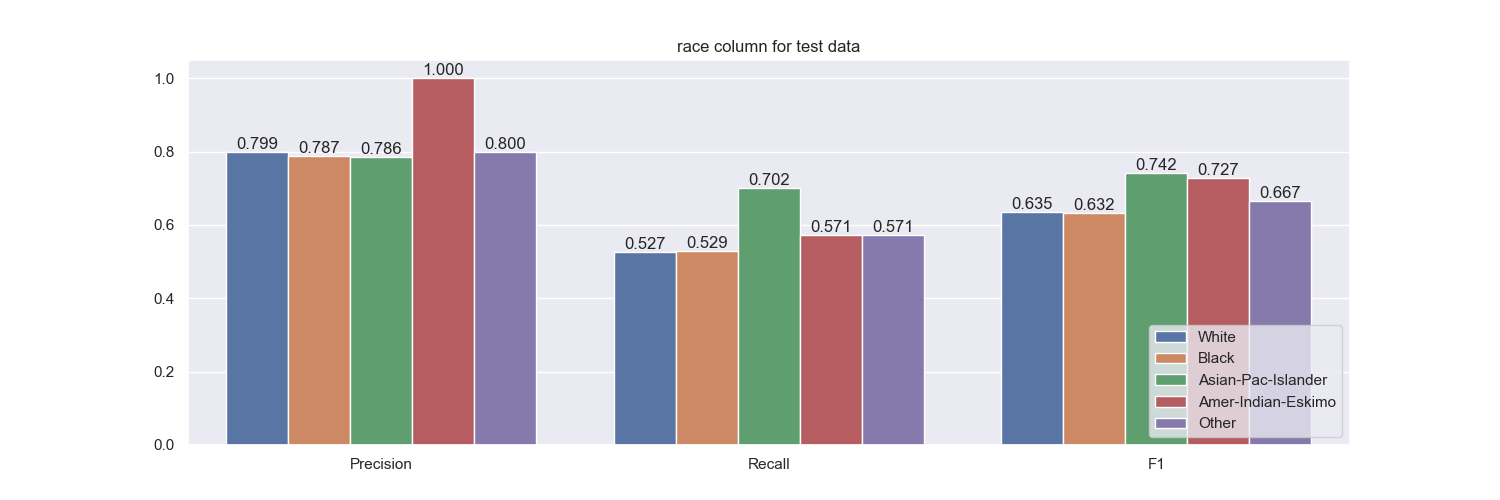
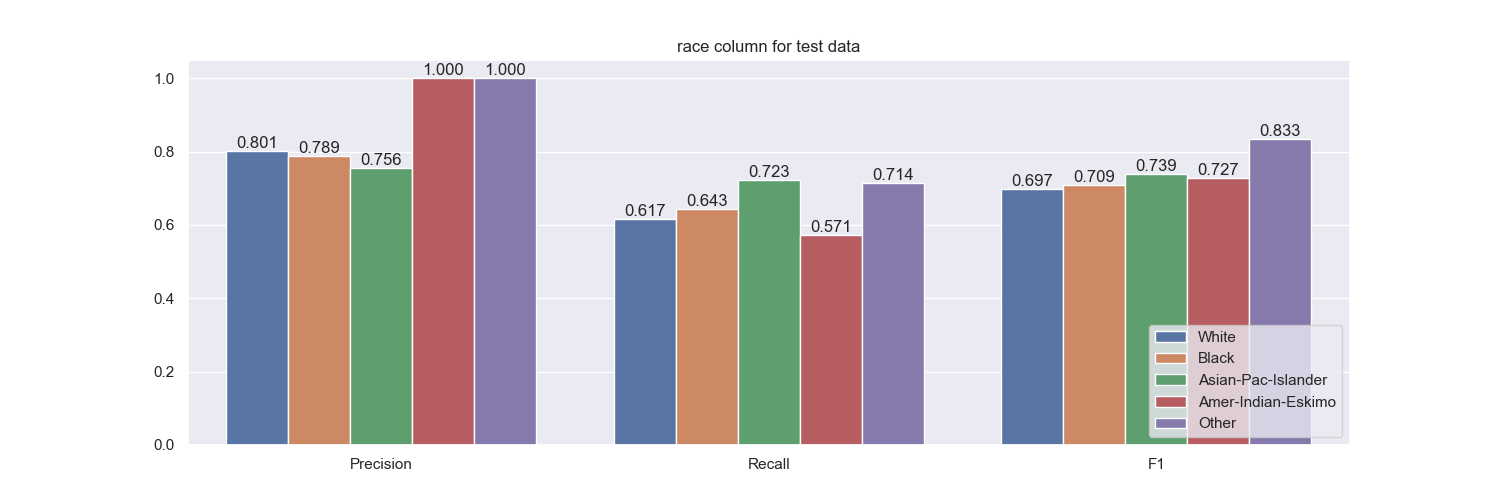
update

diff --git a/src/config.py b/src/config.py
@@ -26,8 +26,8 @@ if isinstance(MODEL, RandomForestClassifier):
     # To tell the GridSearchCV which part of pipeline the parameters are used in,
     # we need '{name of part of pipeline}__' before parameter name.
     PARAM_GRID = {
-        'model__n_estimators': [5],
-        'model__max_depth': [10]
+        'model__n_estimators': [20],
+        'model__max_depth': [20]
         # 'model__n_estimators': list(range(50, 151, 25)),
         # 'model__max_depth': list(range(2, 11, 2)),
         # 'model__min_samples_leaf': list(range(1, 51, 5)),
